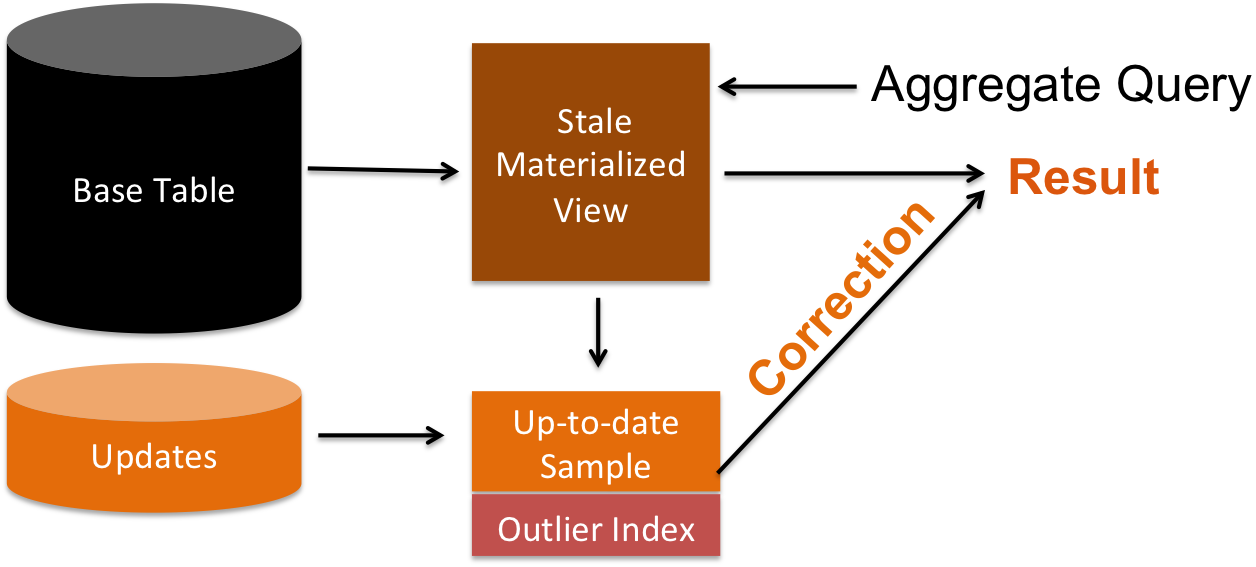
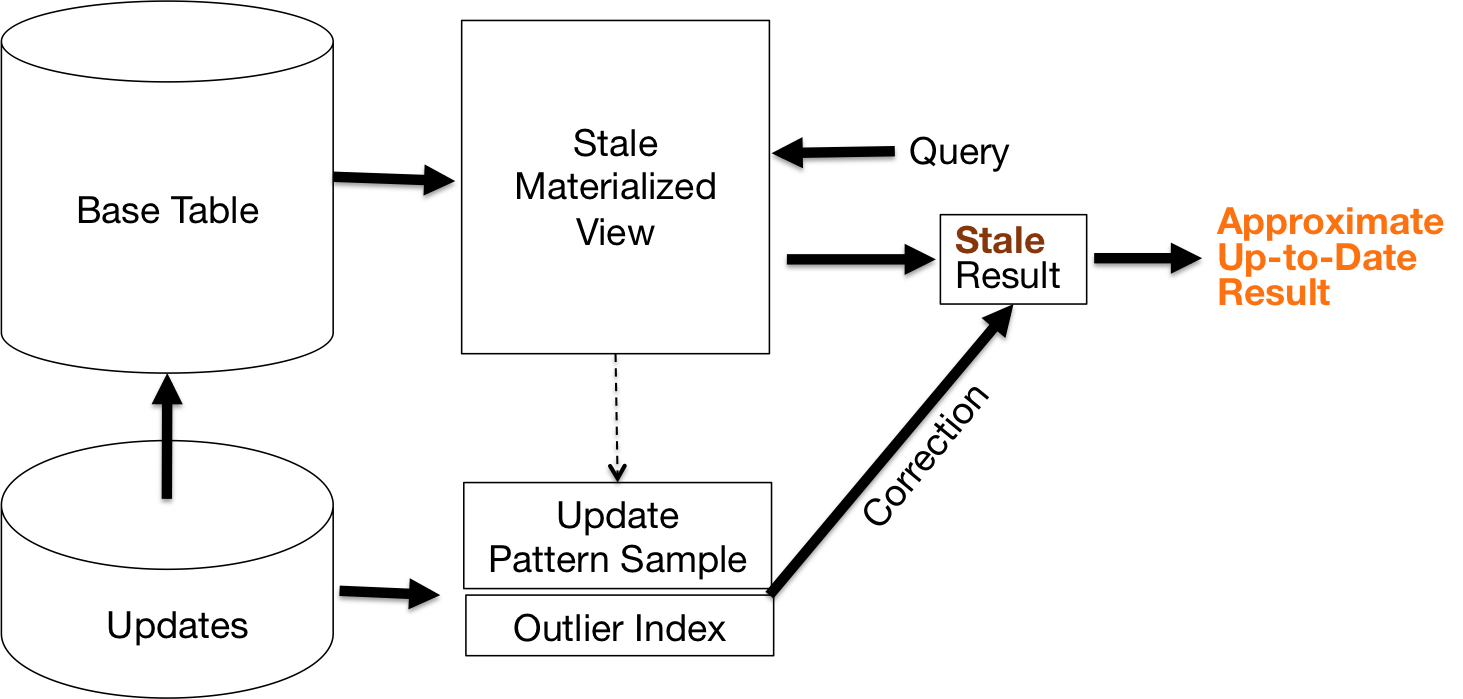
Updated arch, refs, and intro

diff --git a/introduction.tex b/introduction.tex
@@ -1,6 +1,6 @@
 \section{Introduction}
 Materialized views, stored pre-computed query results, are used to facilitate fast query processing on large datasets \cite{gupta1995maintenance, chirkova2011materialized, halevy2001answering}.
-Materialization and related concepts such as selecting which queries to materialize
+Materialization and related concepts such as selecting queries to materialize
 have been well studied in recent research \cite{zaharia2012resilient,lefevre2014opportunistic, bailis2014scalable, perez2014history}.
 This research has further expanded beyond the SQL setting \cite{nikolic2014linview, zhang2014mat} and 
 has shown promising results when applied to numerical linear algebra and machine learning.
@@ -9,25 +9,26 @@ materialized views face the challenge of \emph{staleness} where the pre-computed
 To avoid expensive recalculation, incrementally updating the views,
 also called incremental maintenance, has been well studied \cite{gupta1995maintenance, chirkova2011materialized}.
 
-Unfortunately, in many applications, incrementally maintenance on each update can be very costly. 
+Unfortunately, in many applications, incremental maintenance on each update can be very costly. 
 Consequently, it is common to defer maintenance to a later time \cite{chirkova2011materialized, zhou2007lazy}.
 Deferral allows for many advantages such as batching updates together to amortize overheads and scheduling updates at times when there are more system resources available, for example, at night.
-Deferral strategies provide increased flexibility to meet the resource constraints of the system, but may not guarantee that the views will always be up-to-date.
-When a materialized view is out-of-date during a maintenance gap, queries issued to the view can have \emph{stale} results. 
+Deferral allows for increased flexibility to meet the resource constraints of the system, but may not guarantee that the view will be up-to-date.
+
+%When a materialized view is out-of-date during a maintenance gap, queries issued to the view can have \emph{stale} results. 
 
 In this work, we address the view-maintenance problem from a different perspective.
 We explore whether refreshing stale rows in a materialized view can be modeled as a data cleaning problem and whether stale query results can be \emph{cleaned}.
 While much of the data cleaning literature focuses on improving query accuracy on dirty datasets,
 recent work has also considered the costs of data cleaning \cite{wang1999sample}.
-In particular, recent results show that to answer aggregate queries, such as SUM, COUNT, and AVG, on dirty datasets, it suffices to clean a small, representative sample of dirty records.
-This model raises a new possibility for materialized views, namely, that a sample of up-to-date rows can be used to answer aggregate queries without having to maintain the entire materialized view.
+Recent results show that to answer aggregate queries, such as SUM, COUNT, and AVG, on dirty datasets, it suffices to clean a small, representative sample of dirty records.
+This model raises a new possibility for materialized views, namely, that a sample of up-to-date rows can be used to answer aggregate queries without incurring the cost of full maintenance.
 
-We propose Sample-View-Clean (SVC), a framework that samples updates to a materialized view and corrects stale aggregation query results.
-While approximate, the corrected query result is in-expectation fresh and can be bounded within confidence intervals.
-This framework will be complementary to periodic approaches; when the materialized views are stale between maintenance cycles, we can apply SVC for approximately fresh results for far less costs than having to maintain the entire view.
-Without SVC, existing periodic maintenance approaches allow the user to control the freshness of queries by changing maintenance parameters (e.g. nightly maintenance vs. hourly maintenance) based on prior experience.
-However, without bounds on the results, a burst of updates can lead to unexpected changes in query accuracy.
-On the other hand, SVC gives results that are fresh and the user controls a bounded approximation error.
+We propose Sample-View-Clean (SVC), a framework that uses a \emph{sample} of up-to-date data to \emph{clean} stale aggregation query results.
+While approximate, the corrected query result can be bounded within confidence intervals.
+This framework will be complementary to existing deferred maintenance approaches; when the materialized views are stale between maintenance cycles, we can apply SVC for approximately results for far less costs than having to maintain the entire view.
+Without SVC, existing work allows the user to control the freshness of queries by changing maintenance parameters (e.g. nightly maintenance vs. hourly maintenance) based on prior experience.
+Without bounds on the results, a burst of updates can lead to unexpected changes in query accuracy.
+On the other hand, SVC gives results that are fresh and the user controls a bounded approximation error with the sampling ratio.
 
 %Sampling gives the user the ability to scale the performance 
 %Existing techniques allow the user to control the freshness of queries by chaning maintenance parameters (e.g. nightly maintenance vs. hourly maintenance) based on prior experience. However, without bounds on the results, a burst of updates can lead to unexpected changes in query accuracy.
@@ -35,8 +36,7 @@ On the other hand, SVC gives results that are fresh and the user controls a boun
 
 %The SampleClean project [?] studied a related problem of bounding aggregate queries on dirty datasets but did not consider materialized views or the effect of missing records.
 
-SVC has three main components: (1) sampling, (2) correction, and (3) outlier indexing. In (1), we define a logical unit called an ``update pattern" which represents how an update affects the derived view. (2) we use the sampled update patterns to correct aggregate queries on stale materialized views.
-From the sample, we estimate how much the updates affect the query and we use this estimate to clean the stale query result.
+SVC has three main components: (1) sampling, (2) correction, and (3) outlier indexing. In (1), we define an ``update pattern" which represents how an update affects the derived view, and we take a sample of these patterns. (2)  From the sample, we estimate how much the updates affect the query and we use this estimate to clean the stale query result.
 Finally, in (3) sampling is known to be sensitive to outliers \cite{chaudhuri2001overcoming}.
 We utilize a technique called outlier indexing \cite{chaudhuri2001overcoming}, which guarantees that rows in the materialized view derived from an ``outlier" record (one that has abnormal attribute values) is contained in the sample, which can be used to increase correction accuracy.
 

diff --git a/architecture.tex b/architecture.tex
@@ -1,51 +1,59 @@
 \section{System Overview}\label{sec-arch}
+In this section, we give an overview of the entire architecture of SVC.
+We first define the scope of SVC including which types of views and queries we address.
+Then, we briefly present each of the components of our system.
+
 \subsection{Problem Setting}
 %In this paper, we only consider insertions to the base table, see
 %\reminder{Extended Paper} for more details on how to model deletions.
-\subsubsection{Supported Views}
-We apply SVC to three classes of materialized views, Select-Project, Foreign-Key, and Aggregation: \reminder{It would be better to say something about other types of views.}
-\vspace{1em}
+\subsubsection{Materialized Views}
+In this paper, we evaluate SVC on three classes of materialized views, Select-Project, Foreign-Key Join, and Aggregation:
+\vspace{0.5em}
 
 \noindent\textbf{Select-Project Views (\spview): } These views are defined by Select-Project
 expressions of the following form:
 
-\reminder{Maybe you can make the notations of views be consistent with the notations of queries.}
-
 \begin{lstlisting}
-SELECT [col1,col2,...] 
-FROM table 
-WHERE condition([col1,col2,...]) 
+SELECT [a1,a2,...] FROM Table 
+WHERE Condition(A) 
 \end{lstlisting}
 
-\vspace{1em}
+\vspace{0.5em}
 
 \noindent\textbf{Foreign-Key Join Views (\fjview): } As an extension to the Select-Project Views, we can support views derived from a Foreign-Key join:
 
 \begin{lstlisting}
-SELECT table1.[col1,col2,...], 
-table2.[col1,col2,...]
-FROM table1, table2 
-WHERE table1.fk = table2.fk 
-AND condition([col1,col2,...]) 
+SELECT table1.[a1,a2,...],
+table2.[a1,a2,...] FROM Table1, Table2 
+WHERE
+Table1.fk = Table2.fk  AND Condition(A);
 \end{lstlisting}
 
-\vspace{1em}
+\vspace{0.5em}
 
 \noindent\textbf{Aggregation Views (\aggview): } We also consider views defined by group-by aggregation queries of the following form:
 
 \begin{lstlisting}
-SELECT [f1(col1),f2(col2),...] 
-FROM table 
-WHERE condition([col1,col2,...]) 
-GROUP BY [col1,col2,...]
+SELECT [f1(a1),f2(a2),...] 
+FROM Table 
+WHERE Condition(A)
+GROUP BY [a3,a4,...];
 \end{lstlisting}
 
+\vspace{0.5em}
+
+We selected these classes of views to be specific enough to analyze in terms of cost but general enough to evaluate using real datasets and query workloads.
+There are, however, other types of materialized views that SVC can support including views defined by nested queries, equality joins, and aggregate queries with \havingfunc clauses.
+
+\subsubsection{Updates}
 There are three types of updates that can affect a base table: \insertion, \delete, \update.
-We can model \update as a \delete of the old record then an \insertion of a new record with updated values. Insertion-only workloads are increasing common \reminder{Tim will find a citation}.
+We can model \update as a \delete of the old record then an \insertion of a new record with updated values. 
+Insertion-only workloads are increasing common \reminder{Tim will find a citation}.
 Thus, the primary focus of this paper is on analysis and results for \insertion. In Section \ref{sec:del}, we discuss how to modify our query processing to support \delete, which in turn allows us to support \update.
 
 \subsubsection{Supported Queries}
-In this paper, we focus on deriving corrections for the three most common \reminder{Maybe saying ``three commonly used" is less argulable. } aggregation queries on the view\footnote{\scriptsize For ease of presentation, we assume the query does not have a group-by clause, which can be easily extended by treating each group key as an additional condition of the query.} : 
+In this paper, we focus on deriving corrections for the three commonly used aggregation queries on the view.
+For ease of presentation, we assume the query does not have a group-by clause, which can be easily extended by treating each group key as an additional condition of the query: 
 \begin{lstlisting} [mathescape]
 SELECT $\sumfunc(a)/\countfunc(a)/\avgfunc(a)$ FROM View 
 WHERE Condition(A);
@@ -87,7 +95,7 @@ Refer to Section \ref{sec:sel} for a discussion of how to correct Select queries
 
 \subsection{System Architecture}
 Modeling view maintenance as a data cleaning problem gives us a new perspective for addressing staleness.
-Insertions to the base table can cause two types of staleness in the view: rows are either out-of-date or missing altogether.
+Insertions to the base table can cause two types of errors in the view: rows are either out-of-date or missing altogether.
 The challenge is to ``clean" the materialized view by updating the out-of-date rows and inserting the missing rows, however this can be very expensive if there are a large number of new records to process.
 Suppose, we cleaned a random sample of dirty rows processing only as many of the new insertions as necessary this would potentially reduce the amount of updates, join executions, and aggregates we would need to compute.
 From this sample, we can derive a correction to stale query results.

diff --git a/problem_statement.tex b/problem_statement.tex
@@ -33,13 +33,12 @@ The details of the refresh operation depend on the view definition.
 %and deletions for future work.
 
 \subsection{Maintenance Strategies}
-There are two principle types of maintenance strategies: immediate and deferred. 
+There are two principle incremental maintenance strategies: immediate and deferred. 
 In immediate maintenance, as soon as the base table is updated, 
 any derived materialized view is also updated.
 Immediate maintenance has an advantage that queries on the materialized view are always up-to-date, 
 however it can be very expensive.
-This scheduling strategy places a bottleneck when records are written reducing 
-the available write-throughput for the database. \reminder{The sentence is hard to read.}
+This scheduling strategy places a bottleneck on updates to the base table.
 Furthermore, especially in a distributed setting, record-by-record 
 maintenance cannot take advantage of the benefits of consolidating communication overheads by batching.
 
@@ -75,20 +74,16 @@ Recent work has begun to consider the costs of data cleaning as well as how to b
 %The Data Wrangler project argues that rules to correct the entire dataset can be learned from a small set of training examples \cite{kandel2011wrangler}.
 The SampleClean project framework cleans a sample of data, and then bounds the results of aggregate queries on dirty datasets with respect to the clean data \cite{wang1999sample}.
 
-This process allows the user to control the accuracy of the query with the sampling ratio as opposed to querying a dirty dataset with an unknown level of data error.
-One of the algorithms in SampleClean, NormalizedSC, takes a dirty dataset and query and using a sample of clean data learns how
-to correct a query so the result is ``clean".
-Since the ``correction" is derived from a sample, the correction is approximate but it turns out it bounded in error for  \sumfunc, \countfunc, and \avgfunc queries.
-Extending this approach, we apply a data cleaning cleaning approach to materialized views where we model staleness as a type of data error and budget our cleaning effort to get an approximate correction for aggregate queries (\sumfunc, \countfunc, and \avgfunc). \reminder{I think we need to clarify the difference between this work and our sampleclean work somewhere; It would be better to avoid saying that this work is just an extension of our sampleclean work. }
+One of the algorithms in SampleClean, takes a random sample of dirty records, applies data cleaning, and learns how to correct a query applied to the dirty data.
+Instead of modeling data error on the base table, SampleClean considers how dirtiness affects queries on the data.
+In SVC, we look at queries on stale materialized views from this perspective.
+As materialized views are different problem setting, there are new challenges such as sampling from changing base tables, selection queries, and considering the effects of outliers.
 
 \subsection{SAQP}
 Estimating the results of aggregate queries from samples has been
 well studied in a field called Sample-based Approximate Query Processing
-(SAQP). \reminder{refs?}
-Our approach differs from SAQP as we look to
-approximately correct a query rather than directly estimating the query result.
-In other words, we use a sample of up-to-date data to understand how to correct for the
-staleness. 
+(SAQP) \cite{OlkenR86,AgarwalMPMMS13}.
+Our approach differs from SAQP as we use a sample to correct a query rather than directly estimating the query result.
 The SAQP approach to this problem, would be to
 estimate the result directly from the maintained sample \cite{joshi2008materialized}.
 We found that estimating

diff --git a/outline.tex b/outline.tex
@@ -59,6 +59,7 @@
 \newcommand{\maxfunc}{\ensuremath{\texttt{max} }\xspace}
 \newcommand{\countfunc}{\ensuremath{\texttt{count}}\xspace}
 \newcommand{\sumfunc}{\ensuremath{\texttt{sum} }\xspace}
+\newcommand{\havingfunc}{\ensuremath{\texttt{HAVING} }\xspace}
 \newcommand{\ratio}{\ensuremath{\rho }\xspace}
 
 
